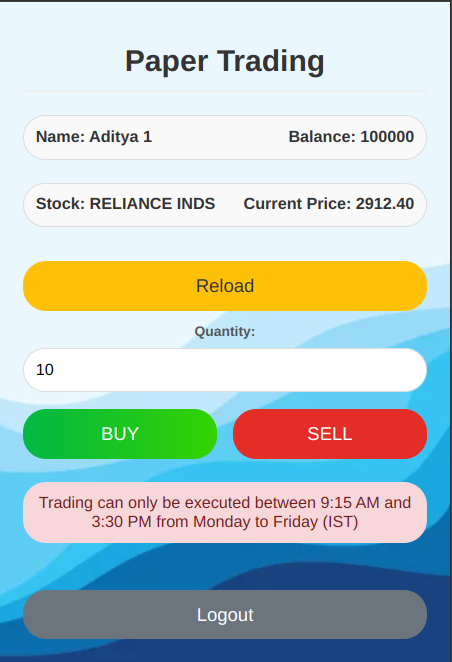
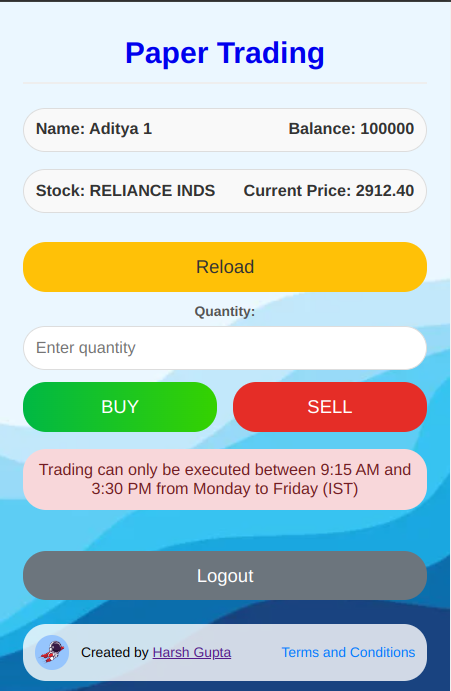
updating images

diff --git a/popup.html b/popup.html
@@ -8,7 +8,7 @@
 </head>
 <body>
     <div class="container">
-        <h1>Paper Trading</h1>
+        <h1><a href="https://tradingdashboard.harshiitkgp.in" target="_blank" rel="noopener noreferrer" style="text-decoration: none;">Paper Trading</a></h1>
         <div id="login-section" class="key-section">
             <label for="apiKey">API Key:</label>
             <input type="text" id="apiKey" placeholder="Enter API Key">
